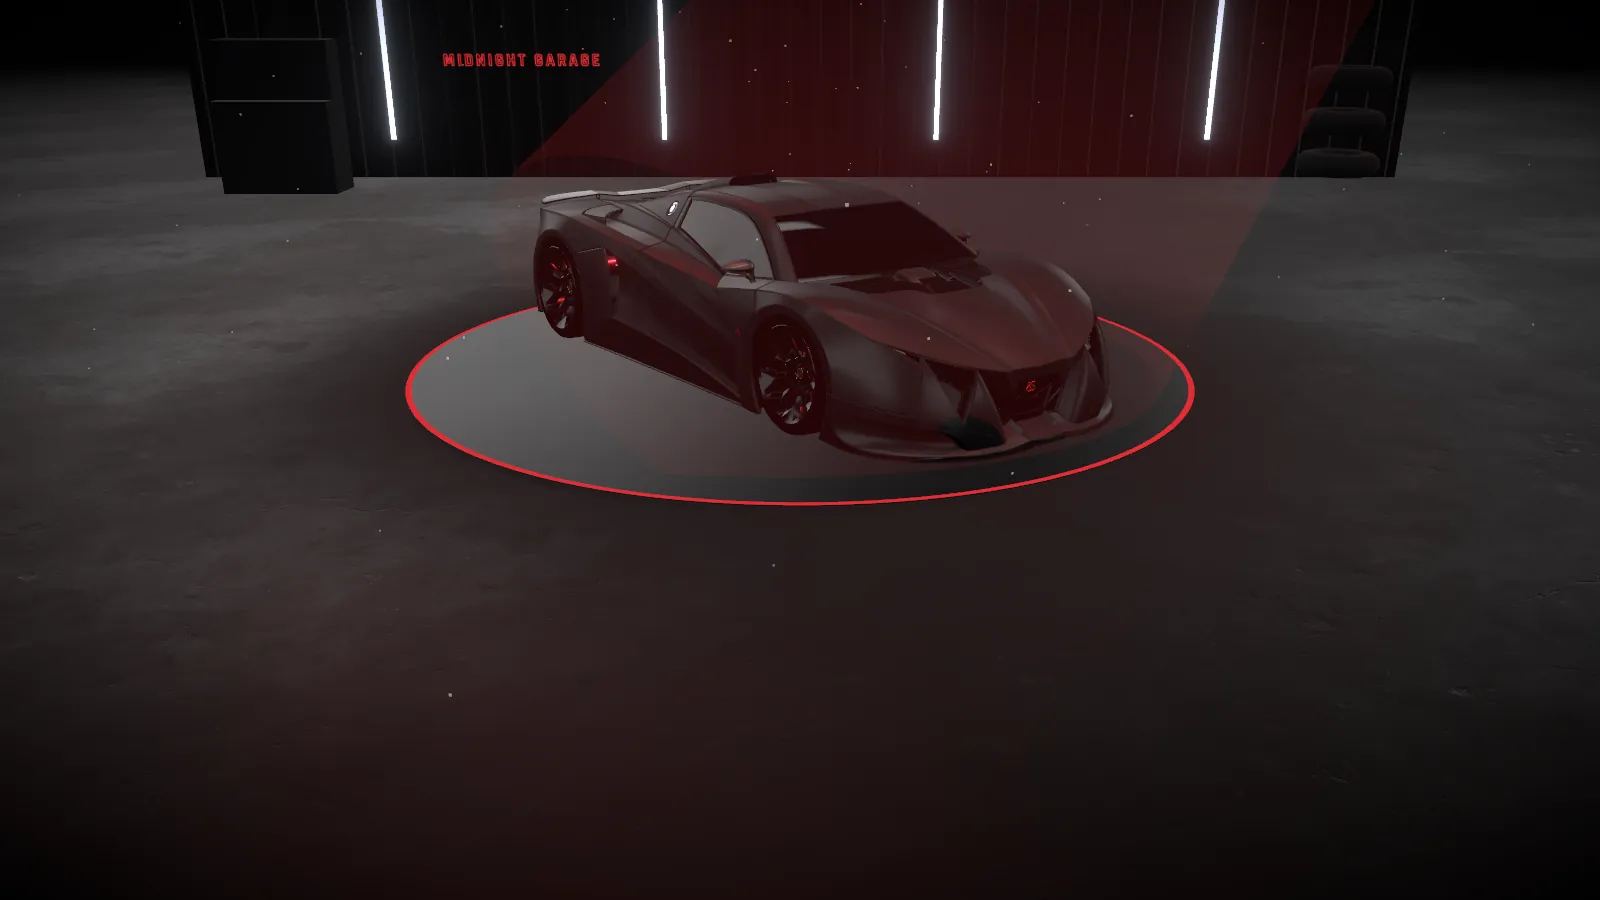
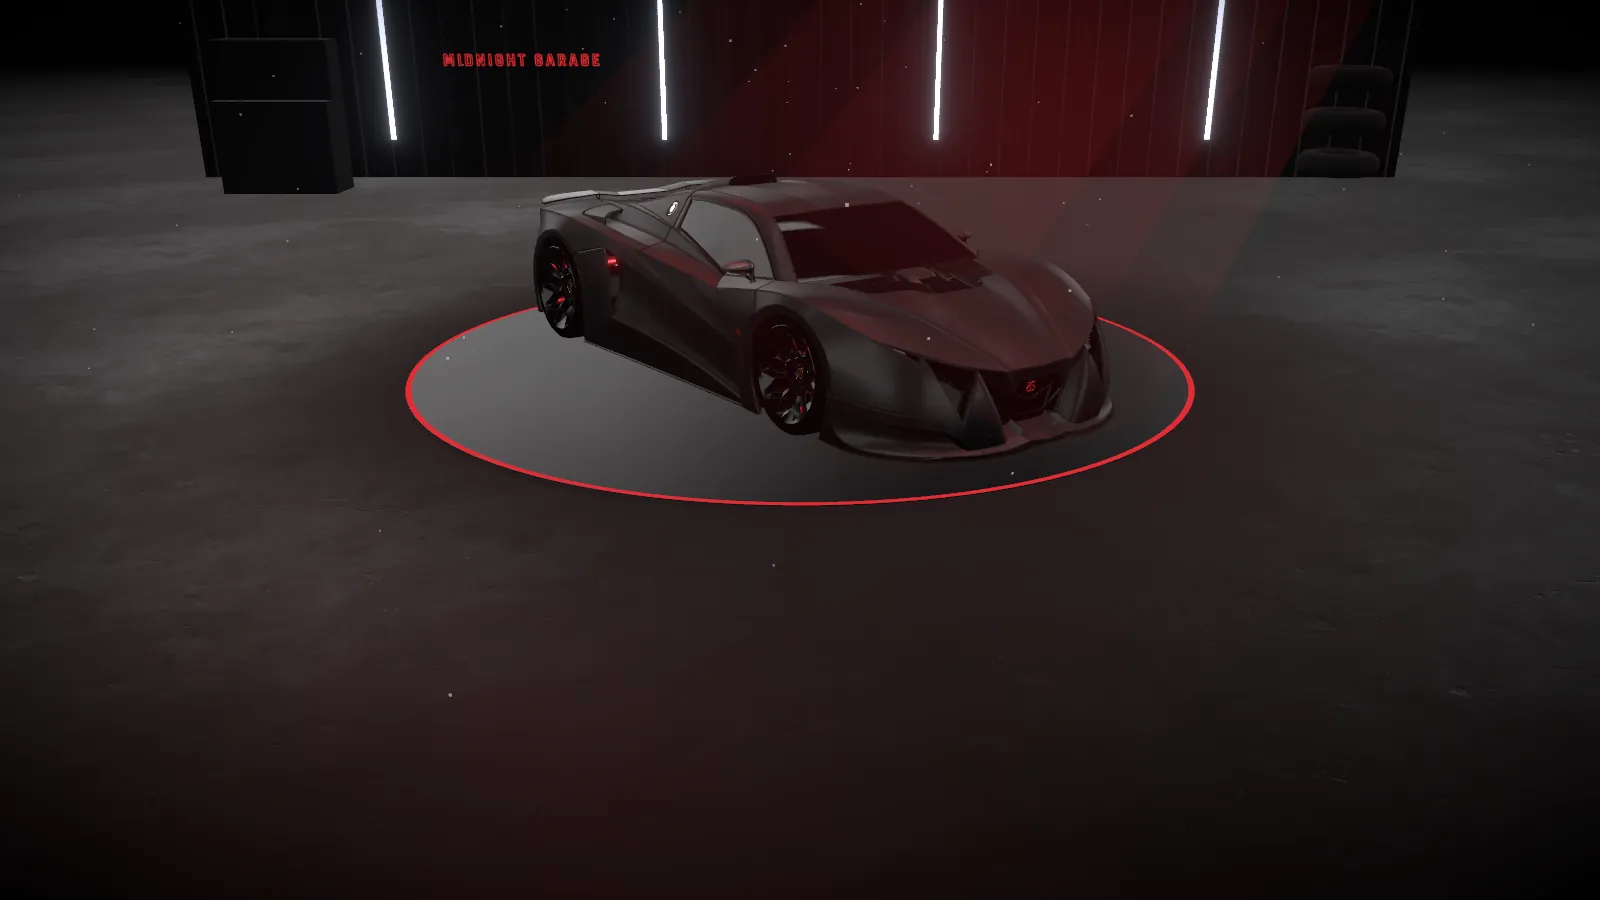
feat(scene): stronger time-of-day looks, softer light shaft, neon sign in portrait

Changed region(s): [[0.3125, 0.28, 0.4062, 0.4044], [0.3125, 0.0933, 0.4375, 0.1867], [0.5, 0.4356, 0.5312, 0.4978]]

diff --git a/src/scene/three/Atmosphere.tsx b/src/scene/three/Atmosphere.tsx
@@ -1,13 +1,15 @@
 import { useFrame } from '@react-three/fiber'
 import { useEffect, useMemo, useRef } from 'react'
-import { AdditiveBlending, BufferAttribute, BufferGeometry, DoubleSide, Quaternion, Vector3, type MeshBasicMaterial, type PointsMaterial } from 'three'
+import { AdditiveBlending, BufferAttribute, BufferGeometry, CanvasTexture, DoubleSide, MeshBasicMaterial, Quaternion, Vector3, type PointsMaterial } from 'three'
 import type { Ambience } from '../ambience'
 import type { Pose } from '../poses'
 import { useRoomLevel } from './useRoomLevel'
 
 const KEY_POSITION = new Vector3(3, 7, 4)
 const BEAM_LENGTH = KEY_POSITION.length()
-const BEAM_OPACITY = 0.05
+const BEAM_RADIUS = 2.2
+const BEAM_LAYERS = [1, 0.7, 0.4]
+const BEAM_OPACITY = 0.035
 const DUST_COUNT = 150
 const DUST_BOX: [number, number, number] = [8, 4, 8]
 const DUST_SPEED = 0.05
@@ -17,10 +19,48 @@ function seeded(i: number): number {
   return x - Math.floor(x)
 }
 
+function beamFade(): CanvasTexture {
+  const canvas = document.createElement('canvas')
+  canvas.width = 4
+  canvas.height = 128
+  const context = canvas.getContext('2d')
+  if (context) {
+    const gradient = context.createLinearGradient(0, 0, 0, canvas.height)
+    gradient.addColorStop(0, '#000')
+    gradient.addColorStop(0.45, '#fff')
+    gradient.addColorStop(0.7, '#fff')
+    gradient.addColorStop(1, '#000')
+    context.fillStyle = gradient
+    context.fillRect(0, 0, canvas.width, canvas.height)
+  }
+  return new CanvasTexture(canvas)
+}
+
 export function Atmosphere({ pose, ambience, deterministic }: { pose: Pose; ambience: Ambience; deterministic: boolean }) {
   const level = useRoomLevel(pose, ambience, deterministic)
-  const beam = useRef<MeshBasicMaterial>(null)
   const dust = useRef<PointsMaterial>(null)
+  const beam = useMemo(
+    () =>
+      new MeshBasicMaterial({
+        alphaMap: beamFade(),
+        transparent: true,
+        depthWrite: false,
+        blending: AdditiveBlending,
+        side: DoubleSide,
+        toneMapped: false,
+      }),
+    [],
+  )
+  useEffect(
+    () => () => {
+      beam.alphaMap?.dispose()
+      beam.dispose()
+    },
+    [beam],
+  )
+  useEffect(() => {
+    beam.color.set(ambience.key)
+  }, [beam, ambience.key])
   const orientation = useMemo(() => {
     const down = KEY_POSITION.clone().negate().normalize()
     return new Quaternion().setFromUnitVectors(new Vector3(0, -1, 0), down)
@@ -42,10 +82,8 @@ export function Atmosphere({ pose, ambience, deterministic }: { pose: Pose; ambi
 
   useFrame((_, delta) => {
     const { presence, glow } = level.current
-    if (beam.current) {
-      beam.current.opacity = BEAM_OPACITY * glow
-      beam.current.visible = presence > 0.01
-    }
+    beam.opacity = BEAM_OPACITY * glow
+    beam.visible = presence > 0.01
     if (dust.current) {
       dust.current.opacity = 0.35 * presence
       dust.current.visible = presence > 0.01
@@ -63,10 +101,11 @@ export function Atmosphere({ pose, ambience, deterministic }: { pose: Pose; ambi
 
   return (
     <group>
-      <mesh position={midpoint} quaternion={orientation}>
-        <coneGeometry args={[2.2, BEAM_LENGTH, 48, 1, true]} />
-        <meshBasicMaterial ref={beam} color={ambience.key} transparent depthWrite={false} blending={AdditiveBlending} toneMapped={false} side={DoubleSide} />
-      </mesh>
+      {BEAM_LAYERS.map((scale) => (
+        <mesh key={scale} position={midpoint} quaternion={orientation} material={beam}>
+          <coneGeometry args={[BEAM_RADIUS * scale, BEAM_LENGTH, 48, 1, true]} />
+        </mesh>
+      ))}
       <points geometry={geometry}>
         <pointsMaterial ref={dust} color="#f3e6d0" size={0.025} sizeAttenuation transparent depthWrite={false} blending={AdditiveBlending} />
       </points>

diff --git a/src/scene/three/NeonSign.tsx b/src/scene/three/NeonSign.tsx
@@ -1,12 +1,14 @@
 import { useFrame } from '@react-three/fiber'
 import { use, useEffect, useMemo, useRef, type MutableRefObject } from 'react'
-import { CanvasTexture, Color, SRGBColorSpace, type Mesh, type MeshBasicMaterial } from 'three'
+import { CanvasTexture, Color, SRGBColorSpace, Vector3, type Mesh, type MeshBasicMaterial } from 'three'
 import type { RoomLevel } from './useRoomLevel'
 
 const NEON = new Color('#C1272D')
 const GLOW = 3
 const FONT = '700 104px Rajdhani, sans-serif'
 const MARGIN = 32
+const LANDSCAPE_SPOT = new Vector3(-3.6, 1.5, 0.1)
+const PORTRAIT_SPOT = new Vector3(0, 0.6, 0.1)
 
 function drawSign(): CanvasTexture {
   const canvas = document.createElement('canvas')
@@ -43,13 +45,16 @@ export function NeonSign({ level }: { level: MutableRefObject<RoomLevel> }) {
 
   useFrame(({ size }) => {
     const { presence, glow } = level.current
-    if (mesh.current) mesh.current.visible = presence > 0.01 && size.width > size.height
+    if (mesh.current) {
+      mesh.current.visible = presence > 0.01
+      mesh.current.position.copy(size.width > size.height ? LANDSCAPE_SPOT : PORTRAIT_SPOT)
+    }
     material.current?.color.copy(NEON).multiplyScalar(GLOW * glow)
     if (material.current) material.current.opacity = presence
   })
 
   return (
-    <mesh ref={mesh} position={[-3.6, 1.5, 0.1]} renderOrder={1}>
+    <mesh ref={mesh} renderOrder={1}>
       <planeGeometry args={[2.2, 0.34]} />
       <meshBasicMaterial ref={material} map={texture} transparent depthWrite={false} toneMapped={false} />
     </mesh>

diff --git a/src/scene/ambience.test.ts b/src/scene/ambience.test.ts
@@ -10,21 +10,21 @@ describe('ambienceAt', () => {
   })
 
   it('hits each key moment exactly', () => {
-    expect(at(7)).toMatchObject({ key: '#b4442a', keyScale: 1.1, env: 1.15, strips: 0.7, tintAlpha: 0.1 })
-    expect(at(13)).toMatchObject({ key: '#b85a4e', keyScale: 1.3, env: 1.4, strips: 0.45, tintAlpha: 0.12 })
-    expect(at(19)).toMatchObject({ key: '#a8361f', keyScale: 1.1, env: 1.1, strips: 0.85, tintAlpha: 0.1 })
+    expect(at(7)).toMatchObject({ key: '#d2643a', keyScale: 1.35, env: 1.5, strips: 0.55, tint: '#ff9a55', tintAlpha: 0.14 })
+    expect(at(13)).toMatchObject({ key: '#e2b49c', keyScale: 1.7, env: 2, strips: 0.3, tint: '#fff2e0', tintAlpha: 0.16 })
+    expect(at(19)).toMatchObject({ key: '#cc4a1c', keyScale: 1.3, env: 1.3, strips: 0.8, tint: '#ffb347', tintAlpha: 0.14 })
   })
 
   it('blends halfway between key moments', () => {
     const mid = at(10)
-    expect(mid.keyScale).toBeCloseTo(1.2)
-    expect(mid.env).toBeCloseTo(1.275)
-    expect(mid.strips).toBeCloseTo(0.575)
+    expect(mid.keyScale).toBeCloseTo(1.525)
+    expect(mid.env).toBeCloseTo(1.75)
+    expect(mid.strips).toBeCloseTo(0.425)
   })
 
   it('wraps from dusk through midnight to deep night', () => {
-    expect(at(22, 30).strips).toBeCloseTo(0.85 + (1 - 0.85) * 0.5)
-    expect(at(0, 45).strips).toBeCloseTo(0.85 + (1 - 0.85) * (5.75 / 7))
+    expect(at(22, 30).strips).toBeCloseTo(0.8 + (1 - 0.8) * 0.5)
+    expect(at(0, 45).strips).toBeCloseTo(0.8 + (1 - 0.8) * (5.75 / 7))
   })
 
   it('blends colours smoothly', () => {

diff --git a/src/scene/ambience.ts b/src/scene/ambience.ts
@@ -13,9 +13,9 @@ export const NIGHT: Ambience = { key: '#9e1c22', keyScale: 1, env: 1, strips: 1,
 
 const KEYS: readonly { hour: number; value: Ambience }[] = [
   { hour: 2, value: NIGHT },
-  { hour: 7, value: { key: '#b4442a', keyScale: 1.1, env: 1.15, strips: 0.7, tint: '#ff9a55', tintAlpha: 0.1 } },
-  { hour: 13, value: { key: '#b85a4e', keyScale: 1.3, env: 1.4, strips: 0.45, tint: '#fff2e0', tintAlpha: 0.12 } },
-  { hour: 19, value: { key: '#a8361f', keyScale: 1.1, env: 1.1, strips: 0.85, tint: '#ffb347', tintAlpha: 0.1 } },
+  { hour: 7, value: { key: '#d2643a', keyScale: 1.35, env: 1.5, strips: 0.55, tint: '#ff9a55', tintAlpha: 0.14 } },
+  { hour: 13, value: { key: '#e2b49c', keyScale: 1.7, env: 2, strips: 0.3, tint: '#fff2e0', tintAlpha: 0.16 } },
+  { hour: 19, value: { key: '#cc4a1c', keyScale: 1.3, env: 1.3, strips: 0.8, tint: '#ffb347', tintAlpha: 0.14 } },
 ]
 
 const toLinear = (c: number) => (c <= 0.04045 ? c / 12.92 : ((c + 0.055) / 1.055) ** 2.4)

diff --git a/src/scene/SceneHost.test.tsx b/src/scene/SceneHost.test.tsx
@@ -200,7 +200,7 @@ describe('SceneHost', () => {
     vi.setSystemTime(new Date(2026, 9, 10, 13, 0))
     const { rerender } = render(<SceneHost scene="garage" webgl2={() => false} />)
     const tint = screen.getByTestId('scene-tint')
-    expect(tint).toHaveStyle({ backgroundColor: '#fff2e0', opacity: '0.12' })
+    expect(tint).toHaveStyle({ backgroundColor: '#fff2e0', opacity: '0.16' })
     rerender(<SceneHost scene="vault" webgl2={() => false} />)
     expect(screen.getByTestId('scene-tint')).toHaveStyle({ opacity: '0' })
   })
